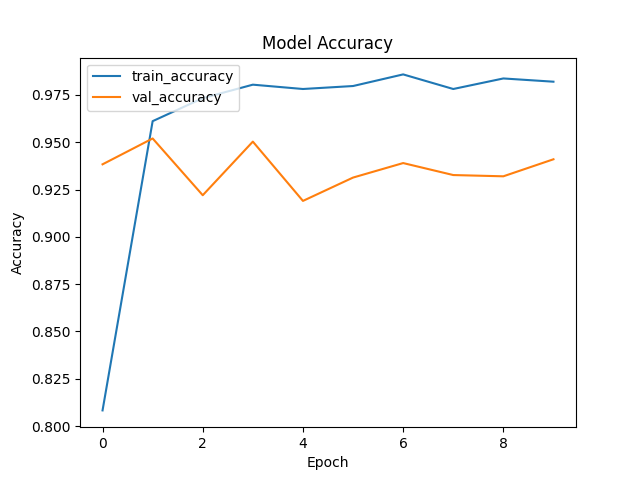
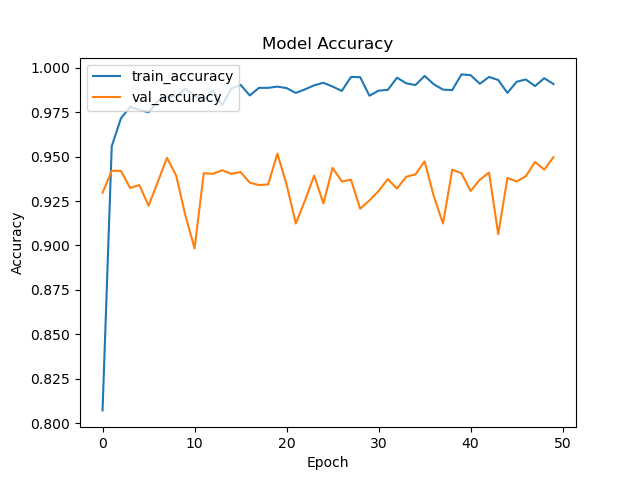
update final result

diff --git a/DenseNet201/DenseNet201.py b/DenseNet201/DenseNet201.py
@@ -31,7 +31,8 @@ CURRENT_HOME_PATH = os.path.dirname(CURRENT_DIR_PATH)
 # 設定
 image_size = (224, 224)
 batch_size = 16
-epochs = 10
+epochs = 50#50 better
+target_val_accuracy = 0.962  # 設定目標驗證準確度 better
 
 # 讀取 name.txt 和 query.txt
 with open(CURRENT_HOME_PATH + f"/name.txt", "r") as f:
@@ -116,8 +117,22 @@ model.compile(
     metrics=["accuracy"],
 )
 
-# 模型訓練
-history = model.fit(train_ds, epochs=epochs, validation_data=test_ds)
+# 自定義 Callback better
+class StopTrainingOnAccuracy(tf.keras.callbacks.Callback):
+    def __init__(self, target_accuracy):
+        super().__init__()
+        self.target_accuracy = target_accuracy
+
+    def on_epoch_end(self, epoch, logs=None):
+        val_acc = logs.get("val_accuracy")
+        if val_acc is not None and val_acc >= self.target_accuracy:
+            print(f"\n驗證準確度達到 {val_acc:.2f}，訓練停止。")
+            self.model.stop_training = True
+
+
+# 模型訓練 better 加入暫停
+callbacks = [StopTrainingOnAccuracy(target_accuracy=target_val_accuracy)]
+history = model.fit(train_ds, epochs=epochs, validation_data=test_ds, callbacks=callbacks)
 
 # 儲存模型
 model.save(filepath=CURRENT_DIR_PATH + f"/model/", overwrite=True, save_format="tf")
